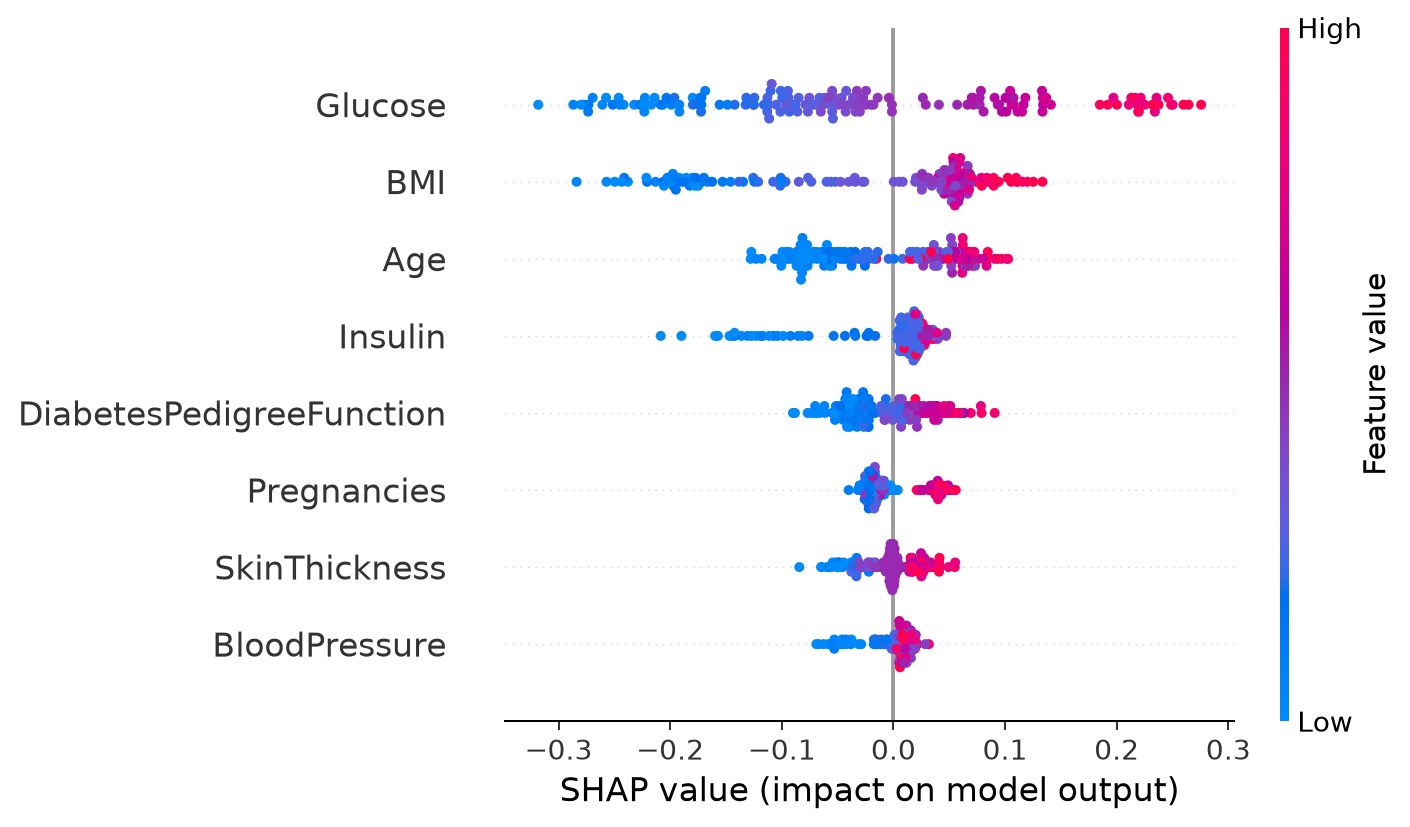
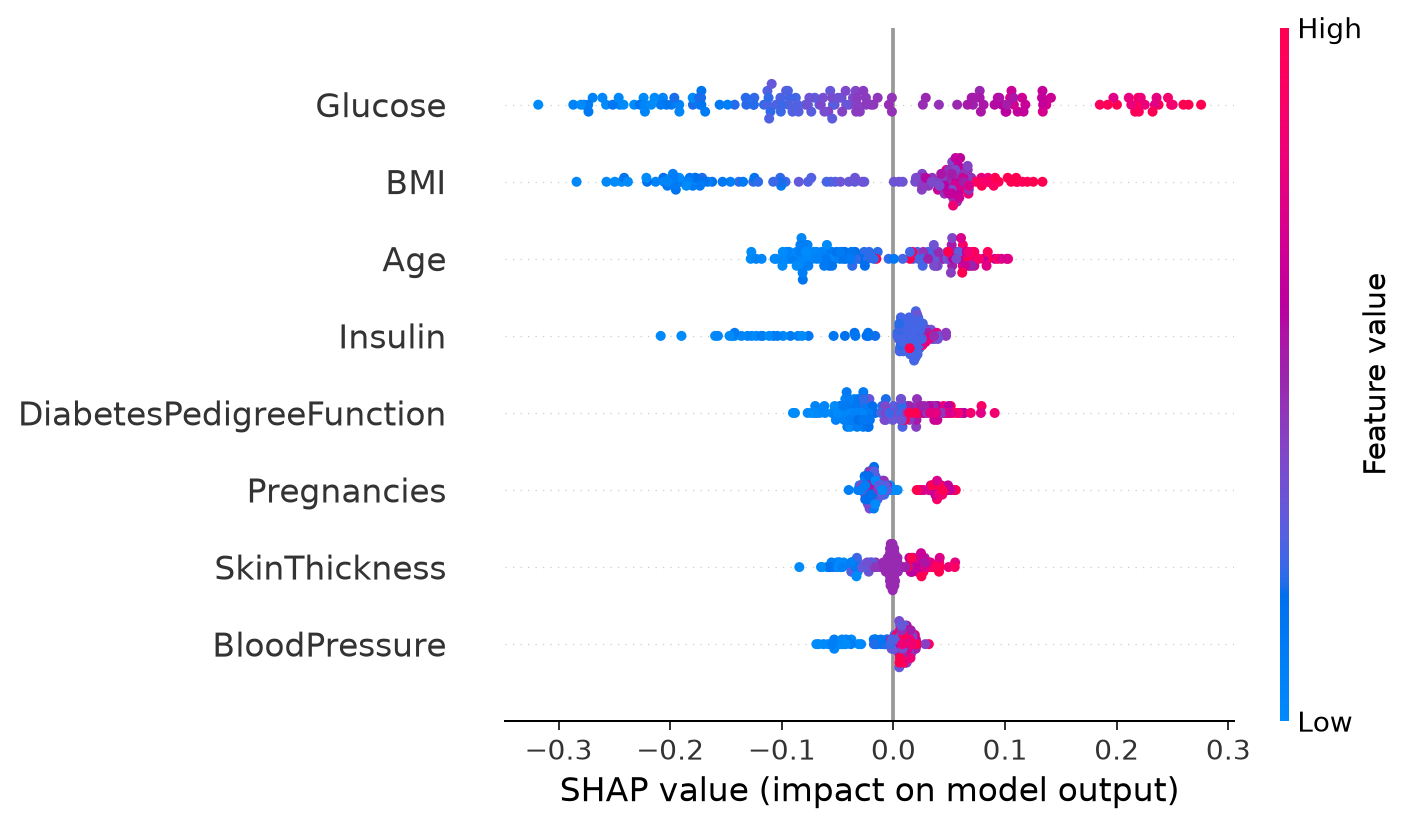
Add threshold and model comparison views

diff --git a/app.py b/app.py
@@ -23,6 +23,7 @@ import streamlit as st
 from reportlab.lib.pagesizes import A4
 from reportlab.pdfgen import canvas
 from reportlab.lib.units import cm
+from sklearn.metrics import confusion_matrix
 
 ROOT = os.path.dirname(os.path.abspath(__file__))
 MODEL_DIR = os.path.join(ROOT, "saved_models")
@@ -71,7 +72,7 @@ def risk_gauge(probability):
     ax.set_ylim(0, 1)
     ax.spines["polar"].set_visible(False)
     ax.grid(False)
-    plt.title(f"Diabetes Risk: {probability:.1%}", fontsize=13, pad=10)
+    plt.title(f"Model score: {probability:.1%}", fontsize=13, pad=10)
     plt.tight_layout()
     return fig
 
@@ -117,7 +118,7 @@ def generate_pdf_report(patient_data, probability, risk_label, top_factors):
     c.drawString(2 * cm, height - 2.8 * cm, "Generated by the ML Diabetes Prediction demo project (for academic use only).")
 
     c.setFont("Helvetica-Bold", 13)
-    c.drawString(2 * cm, height - 4 * cm, f"Predicted Risk: {probability:.1%}  ({risk_label})")
+    c.drawString(2 * cm, height - 4 * cm, f"Model score: {probability:.1%}  |  {risk_label}")
 
     c.setFont("Helvetica-Bold", 12)
     c.drawString(2 * cm, height - 5.2 * cm, "Patient Inputs")
@@ -188,7 +189,11 @@ def main():
     age = st.sidebar.slider("Age", 15, 100, 33)
 
     st.sidebar.markdown(f"**Selected model:** {best_name}")
-    predict_btn = st.sidebar.button("Predict Risk", type="primary")
+    threshold = st.sidebar.slider("Classification threshold", 0.05, 0.95, 0.50, 0.05,
+                                  help="Scores at or above this value are classified positive. This is an educational control, not a clinical cutoff.")
+    predict_btn = st.sidebar.button("Run demo prediction", type="primary")
+    if predict_btn:
+        st.session_state["show_prediction"] = True
 
     patient_data = {
         "Pregnancies": pregnancies, "Glucose": glucose, "BloodPressure": blood_pressure,
@@ -197,16 +202,18 @@ def main():
     }
     patient_df = pd.DataFrame([patient_data])[FEATURE_COLS]
 
-    if predict_btn:
+    if st.session_state.get("show_prediction", False):
         probability = model.predict_proba(patient_df)[0, 1]
-        risk_label = "High Risk" if probability >= 0.66 else ("Moderate Risk" if probability >= 0.33 else "Low Risk")
+        predicted_class = int(probability >= threshold)
+        risk_label = "Positive at selected threshold" if predicted_class else "Negative at selected threshold"
 
         col1, col2 = st.columns([1, 1.3])
         with col1:
             st.pyplot(risk_gauge(probability))
             st.metric("Model score", f"{probability:.1%}")
-            st.metric("Demo band", risk_label)
-            st.caption("Bands are illustrative score ranges, not clinical thresholds.")
+            st.metric("Classification", "Positive" if predicted_class else "Negative",
+                      f"Threshold: {threshold:.0%}")
+            st.caption("This is a model classification at a user-selected threshold, not a clinical result.")
 
         with col2:
             st.subheader("Why this prediction? (SHAP explanation)")
@@ -235,18 +242,67 @@ def main():
         st.info("This tool is an academic project demo and is **not** a medical diagnosis. "
                 "Always consult a qualified healthcare professional.")
     else:
-        st.info("Set patient values in the sidebar and click **Predict Risk** to see results.")
+        st.info("Set sample values, choose a threshold, then click **Run demo prediction** to explore the model.")
 
-    with st.expander("📊 Model performance (from training pipeline)"):
-        st.caption("Scores use one stratified holdout split. Cross-validation scores are calculated on training folds with preprocessing and resampling inside each fold.")
-        if os.path.exists(os.path.join(REPORT_DIR, "model_comparison.csv")):
-            results = pd.read_csv(os.path.join(REPORT_DIR, "model_comparison.csv"))
-            st.dataframe(results.style.format(precision=3), use_container_width=True)
-        col_a, col_b = st.columns(2)
-        if os.path.exists(os.path.join(REPORT_DIR, "model_curves.png")):
-            col_a.image(os.path.join(REPORT_DIR, "model_curves.png"), caption="ROC and precision–recall curves")
-        if os.path.exists(os.path.join(REPORT_DIR, "shap_summary.png")):
-            col_b.image(os.path.join(REPORT_DIR, "shap_summary.png"), caption="Global SHAP feature effects")
+    st.subheader("Threshold explorer")
+    st.caption("Change the sidebar threshold and see how classifications shift on the held-out test set. A lower threshold usually finds more positives but can increase false alarms.")
+    prediction_path = os.path.join(REPORT_DIR, "test_predictions.csv")
+    if os.path.exists(prediction_path):
+        heldout = pd.read_csv(prediction_path)
+        actual = heldout["actual"].astype(int).to_numpy()
+        predicted = (heldout["probability"].to_numpy() >= threshold).astype(int)
+        tn, fp, fn, tp = confusion_matrix(actual, predicted, labels=[0, 1]).ravel()
+        precision = tp / (tp + fp) if tp + fp else 0.0
+        recall = tp / (tp + fn) if tp + fn else 0.0
+        specificity = tn / (tn + fp) if tn + fp else 0.0
+        a, b, c, d = st.columns(4)
+        a.metric("True positives", int(tp))
+        b.metric("False positives", int(fp))
+        c.metric("False negatives", int(fn))
+        d.metric("True negatives", int(tn))
+        a, b, c = st.columns(3)
+        a.metric("Precision", f"{precision:.1%}")
+        b.metric("Recall", f"{recall:.1%}")
+        c.metric("Specificity", f"{specificity:.1%}")
+        st.dataframe(pd.DataFrame([[tn, fp], [fn, tp]],
+                                  index=["Actual negative", "Actual positive"],
+                                  columns=["Predicted negative", "Predicted positive"]),
+                     use_container_width=True)
+        st.caption(f"Held-out sample: {len(actual)} records. Threshold controls are for learning and are not medically validated.")
+    else:
+        st.warning("Held-out prediction file not found. Run `python train_models.py` to generate it.")
+
+    st.subheader("Model comparison")
+    st.caption(f"The app uses **{best_name}**, selected by mean training-fold ROC-AUC. Compare that stability estimate with held-out test performance below.")
+    metrics_path = os.path.join(REPORT_DIR, "model_comparison.csv")
+    if os.path.exists(metrics_path):
+        results = pd.read_csv(metrics_path)
+        metric_options = {
+            "Test ROC-AUC": "roc_auc",
+            "Cross-validation ROC-AUC (mean)": "cv_auc_mean",
+            "Recall": "recall",
+            "Precision": "precision",
+            "Balanced accuracy": "balanced_accuracy",
+            "F1 score": "f1_score",
+            "Specificity": "specificity",
+        }
+        selected_metric = st.selectbox("Compare models by", list(metric_options))
+        metric_col = metric_options[selected_metric]
+        chart_data = results.set_index("model")[[metric_col]].sort_values(metric_col, ascending=True)
+        st.caption(f"{selected_metric} by model · higher is better")
+        st.bar_chart(chart_data)
+        with st.expander("See all evaluation metrics"):
+            st.dataframe(results.sort_values("cv_auc_mean", ascending=False).style.format(precision=3),
+                         use_container_width=True)
+        curves_path = os.path.join(REPORT_DIR, "model_curves.png")
+        if os.path.exists(curves_path):
+            st.image(curves_path, caption="ROC and precision–recall curves · held-out test set", use_container_width=True)
+        shap_path = os.path.join(REPORT_DIR, "shap_summary.png")
+        if os.path.exists(shap_path):
+            with st.expander("Global SHAP feature effects"):
+                st.image(shap_path, use_container_width=True)
+    else:
+        st.info("Run `python train_models.py` to generate model comparison results.")
 
 
 if __name__ == "__main__":

diff --git a/train_models.py b/train_models.py
@@ -126,6 +126,9 @@ def main():
     metrics.to_csv(REPORT_DIR / "model_comparison.csv", index=False, float_format="%.4f")
     plot_curves(results, y_test)
     winner = metrics.sort_values("cv_auc_mean", ascending=False).iloc[0]["model"]
+    pd.DataFrame({"actual": y_test.to_numpy(),
+                  "probability": results[winner]["proba"]}).to_csv(
+                      REPORT_DIR / "test_predictions.csv", index=False, float_format="%.6f")
     joblib.dump(results[winner]["pipeline"], MODEL_DIR / "best_model.pkl")
     (MODEL_DIR / "best_model_name.txt").write_text(winner, encoding="utf-8")
 

diff --git a/README.md b/README.md
@@ -12,7 +12,7 @@ python train_models.py
 streamlit run app.py
 ```
 
-Training regenerates the model artifacts in `saved_models/` and evaluation outputs in `reports/`. The app loads paths relative to its own file, so it can be started from another working directory too.
+Training regenerates the model artifacts in `saved_models/` and evaluation outputs in `reports/`. The app loads paths relative to its own file, so it can be started from another working directory too. It includes a threshold explorer and a model comparison view.
 
 ## What the pipeline does
 
@@ -21,7 +21,7 @@ Training regenerates the model artifacts in `saved_models/` and evaluation outpu
 3. Compares Logistic Regression, Random Forest, AdaBoost, and a Stacking Ensemble.
 4. Runs stratified five-fold ROC-AUC cross-validation. Imputation, scaling, and SMOTE are kept inside an imbalanced-learn pipeline, so each fold learns preprocessing and resampling from its training portion only.
 5. Selects a model using mean training-fold ROC-AUC, then reports final metrics on the untouched test split. Reports include ROC-AUC, balanced accuracy, precision, recall, specificity, F1, Brier score, confusion matrices, and ROC / precision-recall curves.
-6. Generates a global SHAP summary for the Random Forest and saves the selected prediction pipeline for the app.
+6. Generates a global SHAP summary for the Random Forest, saves the selected prediction pipeline, and exports held-out predictions for the app threshold explorer.
 
 ## Outputs
 
@@ -30,6 +30,7 @@ Training regenerates the model artifacts in `saved_models/` and evaluation outpu
 - `reports/confusion_matrix_*.png` — one confusion matrix per model.
 - `reports/shap_summary.png` and `reports/shap_feature_importance.png` — global model explanation views.
 - `reports/experiment_metadata.json` — seed, dataset size, split, and model-selection rule.
+- `reports/test_predictions.csv` — held-out labels and scores used by the interactive threshold explorer.
 - `saved_models/` — selected pipeline plus the Random Forest explanation artifacts.
 
 ## Suggested presentation walkthrough
@@ -38,8 +39,9 @@ Training regenerates the model artifacts in `saved_models/` and evaluation outpu
 2. Point out the zeros treated as missing and why imputation is fitted inside the pipeline.
 3. Explain why SMOTE is applied only to training folds and never to the held-out test data.
 4. Compare cross-validation stability (mean ± standard deviation) with the one-time test metrics; discuss precision and recall together.
-5. Enter a sample profile in the app, then explain that SHAP describes this model's feature contributions, not causation.
-6. Close with the limits below and possible next steps.
+5. Use the app threshold explorer to discuss how false positives, false negatives, precision, and recall shift as the cutoff changes.
+6. Enter a sample profile in the app, then explain that SHAP describes this model's feature contributions, not causation.
+7. Close with the limits below and possible next steps.
 
 ## Important limitations
 
